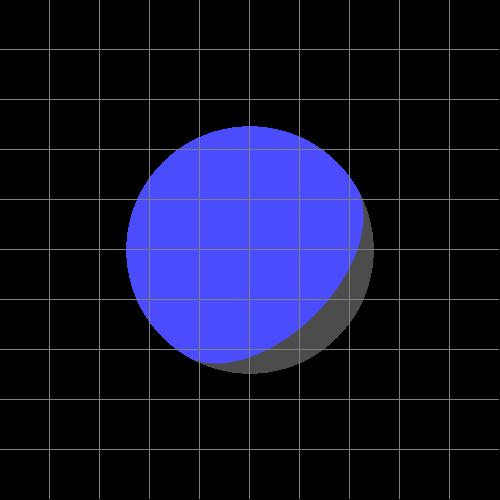
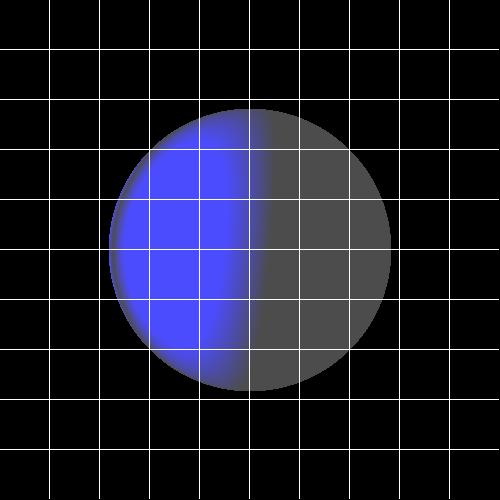
updated

diff --git a/src/unitTests/RenderTest.java b/src/unitTests/RenderTest.java
@@ -37,23 +37,23 @@ public class RenderTest {
 		ImageWriter imageWriter = new ImageWriter("test0", 500, 500, 500, 500);
 		Render render = new Render(imageWriter, scene);
 		
-		render.renderImage();
+		/*render.renderImage();
 		render.printGrid(50);
-		render.writeToimage();
+		render.writeToimage();*/
 	}
 
 	@Test
 	public void DirectionalLighttest() {
 		Scene scene = new Scene("Test scene");
 		scene.set_camera(new Camera(new Point3D(0, 0, 0), new Vector(0, -1, 0), new Vector(0, 0, 1)));
-		scene.set_screenDistance(350);
+		scene.set_screenDistance(400);
 		scene.set_background(new Color(0, 0, 0));
 		Geometries geometries = new Geometries();
 		scene.set_geometries(geometries);
 		scene.set_ambientLight(new AmbientLight(new Color (255,255,255),0.3));
-		scene.get_lights().add(new DirectionalLight(new Vector(1,1,1),new Color(0,0,128)));
+		scene.get_lights().add(new DirectionalLight(new Vector(10,1,1),new Color(0,0,255)));
 		
-		geometries.addGeometry(new Sphere(50, new Point3D(0, 0, 150),new Color(0,0,0),new Material (1,1,1)));
+		geometries.addGeometry(new Sphere(50, new Point3D(0, 0, 150),new Color(0,0,0),new Material (0.03,1,1)));
 		
 		ImageWriter imageWriter = new ImageWriter("direction", 500, 500, 500, 500);
 		Render render = new Render(imageWriter, scene);
@@ -67,13 +67,14 @@ public class RenderTest {
 	public void Pointlighttest() {
 		Scene scene = new Scene("Test scene");
 		scene.set_camera(new Camera(new Point3D(0, 0, 0), new Vector(0, -1, 0), new Vector(0, 0, 1)));
-		scene.set_screenDistance(350);
+		scene.set_screenDistance(400);
 		scene.set_background(new Color(0, 0, 0));
 		Geometries geometries = new Geometries();
 		scene.set_geometries(geometries);
 		scene.set_ambientLight(new AmbientLight(new Color (255,255,255),0.3));
-		scene.get_lights().add(new PointLight(new Point3D(0,0,150) ,1,1,1,new Color(0,255,0)));
-		geometries.addGeometry(new Sphere(50, new Point3D(0, 0, 150),new Color(0,0,0),new Material(1,1,1)));
+		scene.get_lights().add(new PointLight(new Point3D(0,0,50) ,1,0,0.1,new Color(0,255,0)));
+		
+		geometries.addGeometry(new Sphere(50, new Point3D(0, 0, 150),new Color(0,0,0),new Material(3,1,1)));
 		
 		ImageWriter imageWriter = new ImageWriter("point", 500, 500, 500, 500);
 		Render render = new Render(imageWriter, scene);
@@ -87,12 +88,13 @@ public class RenderTest {
 	public void Spotlighttest() {
 		Scene scene = new Scene("Test scene");
 		scene.set_camera(new Camera(new Point3D(0, 0, 0), new Vector(0, -1, 0), new Vector(0, 0, 1)));
-		scene.set_screenDistance(350);
+		scene.set_screenDistance(400);
 		scene.set_background(new Color(0, 0, 0));
 		Geometries geometries = new Geometries();
 		scene.set_geometries(geometries);
 		scene.set_ambientLight(new AmbientLight(new Color (255,255,255),0.3));
 		scene.get_lights().add(new SpotLight(new Point3D(0,0,0),1,0,1,new Color(255,0,0),new Vector(0,0,50)));
+		
 		geometries.addGeometry(new Sphere(50, new Point3D(0, 0, 150),new Color(0,0,0),new Material(1,1,1)));
 	
 		ImageWriter imageWriter = new ImageWriter("spot", 500, 500, 500, 500);

diff --git a/src/renderer/Render.java b/src/renderer/Render.java
@@ -52,7 +52,7 @@ public class Render {
 		for (int i = 0; i < _imageWriter.getNx() - 1; i++) {
 			for (int j = 0; j < _imageWriter.getNy() - 1; j++) {
 				if (((i + 1) % grid == 0) || (((j + 1) % grid) == 0))
-					_imageWriter.writePixel(i, j, 128, 128, 128);
+					_imageWriter.writePixel(i, j, 255, 255, 255);
 			}
 		}
 		_imageWriter.writeToimage();
@@ -112,7 +112,7 @@ public class Render {
 	}
 
 	private Color calcSpecular(double ks, Vector l, Vector n, Vector v, int nShininess, Color lightIntensity) {
-		Vector r = l.add(n.scale(2*(l.dotProduct(n))));
+		Vector r = l.add(n.scale(2*(l.dotProduct(n))).normalize());
 		Color specular=new Color((lightIntensity.scale(ks*Math.pow(Math.abs(r.dotProduct(v)), nShininess))));
 		return specular;
 	}

diff --git a/src/unitTests/SphereTests.java b/src/unitTests/SphereTests.java
@@ -2,13 +2,16 @@ package unitTests;
 import geometries.*;
 import primitives.*;
 import static org.junit.jupiter.api.Assertions.*;
-
 import java.util.ArrayList;
 import java.util.List;
 import java.util.Map;
-
 import org.junit.jupiter.api.Test;
 import elements .*;
+/**
+ * 
+ * @author tzvibloom
+ *
+ */
 class SphereTests {
 
 		@Test
